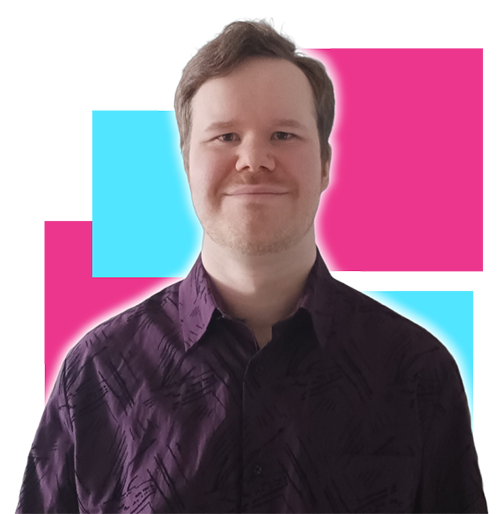
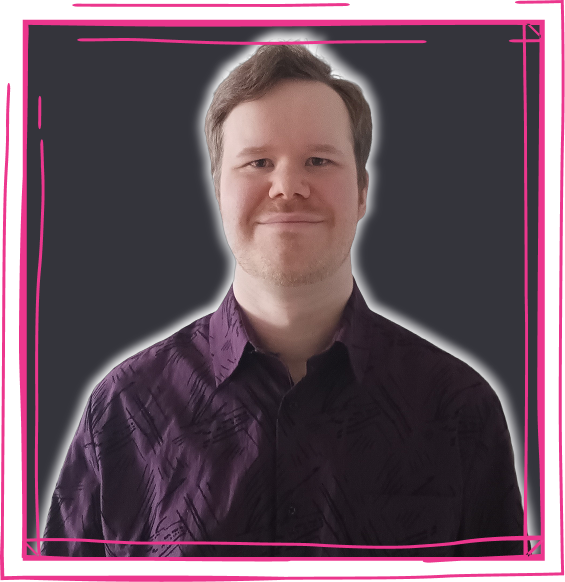
header update

diff --git a/app/website/header.module.scss b/app/website/header.module.scss
@@ -1,108 +1,90 @@
 @use "../main";
 @use "../responsive.scss";
 
+$text-margin: 0.8em 0;
+
 .header {
   background-color: main.$primary-black;
   color: main.$white;
 
   .header_content {
     display: flex;
-    padding-top: 1em;
+    padding: main.$content-padding;
     margin: auto;
     max-width: 1200px;
     white-space: pre-wrap;
 
     @media (max-width: responsive.$tablet) {
-      flex-direction: column-reverse;
+      flex-direction: column;
     }
 
     .header_content_left {
-      flex: 3;
-      padding: 2rem;
+      flex: 4;
       align-self: center;
 
       .text {
-        h2 {
-          margin: 0;
-          font-weight: 300;
-          font-size: main.$title;
-        }
-
         h1 {
-          font-weight: 600;
+          text-transform: uppercase;
+          font-weight: 500;
           color: main.$pink;
-          font-size: 2.8rem;
-          margin: 0.3em 0;
+          font-size: 1.4rem;
+          margin: $text-margin;
         }
 
         p {
-          margin-top: 1em;
-          font-weight: 300;
-        }
-
-        ul {
-          margin-bottom: 2em;
-          font-weight: 300;
-
-          li {
-            margin-bottom: 0.3em;
-          }
-        }
-
-        p,
-        ul {
-          font-size: main.$paragraph;
+          font-size: 1.2rem;
+          margin: $text-margin;
         }
       }
 
-      .buttons {
-        display: flex;
-        gap: 0.8em;
-        align-items: center;
+      .button_contact {
+        font-family: inherit;
+        text-align: center;
+        margin: 0.8em 0;
+        padding: 0.5em 1.2em;
+        border-radius: 0.7em;
+        background-color: main.$pink;
+        border: 1px solid main.$pink;
+        color: main.$white;
+        font-size: 1.2rem;
 
-        .button_cv {
-          text-decoration: auto;
-          text-align: center;
-          padding: 0.5em 1.2em;
-          border-radius: 0.7em;
-          background-color: main.$pink;
-          border: 1px solid main.$pink;
-          color: main.$white;
-          font-size: 1.5em;
-
-          &:hover {
-            background-color: main.$primary-black;
-            color: main.$pink;
-          }
+        &:hover {
+          background-color: main.$primary-black;
+          color: main.$pink;
+          cursor: pointer;
         }
+      }
 
-        .button_icon {
-          &:hover {
-            cursor: pointer;
-            opacity: 0.5;
-          }
+      .button_icon {
+        &:hover {
+          cursor: pointer;
+          opacity: 0.5;
+        }
+      }
+
+      .job_logos {
+        display: flex;
+        flex-wrap: wrap;
+        margin: $text-margin;
+        gap: 1.5em;
+        align-items: baseline;
+
+        .job_logo {
+          object-fit: contain;
+          width: 25%;
+          height: auto;
         }
       }
     }
 
     .header_content_right {
       flex: 2;
-      display: flex;
-      flex-direction: column;
-      justify-content: space-between;
-
-      @media (max-width: responsive.$tablet) {
-        border-bottom: 5px solid main.$pink;
-      }
+      align-self: center;
 
       .image {
-        max-width: 100%;
+        margin: 1em;
+        width: 90%;
         height: auto;
-
-        @media (width > responsive.$mobile-large) and (max-width: responsive.$tablet) {
-          max-width: 60%;
-          margin: auto;
-        }
       }
     }
   }

diff --git a/app/website/header.tsx b/app/website/header.tsx
@@ -1,30 +1,33 @@
+"use client";
 import Image from "next/image";
 import css from "./header.module.scss";
-import Link from "next/link";
 import { useTranslations } from "next-intl";
 import LanguageSwitch from "./languageSwitch";
 
 const Header = (): JSX.Element => {
   const t = useTranslations("website");
 
+  const scrollToSection = () => {
+    const element = document.getElementById("contact");
+    if (element) {
+      element.scrollIntoView({ behavior: "smooth" });
+    }
+  };
+
   return (
     <div className={css.header}>
       <div className={css.header_content}>
         <div className={css.header_content_left}>
+          <LanguageSwitch />
           <div className={css.text}>
-            <h2>{t("header.title")}</h2>
-            <h1>JERE LÄNSIPII</h1>
+            <h1>{t("header.title")}</h1>
             <p>{t("header.description")}</p>
           </div>
           <div className={css.buttons}>
+            <button className={css.button_contact} onClick={scrollToSection}>
+              {t("header.contact")}
+            </button>
             {/*<Link
-              className={css.button_cv}
-              href="https://drive.google.com/file/d/1lW8POtjbSFBUgkzlg0tzgyOiHAW1PIUB/view?usp=drive_link"
-              target="_blank"
-            >
-              {t("header.open_cv")}
-            </Link>*/}
-            <Link
               href="https://linkedin.com/in/jere-länsipii-60b1a3217"
               target="_blank"
             >
@@ -48,17 +51,45 @@ const Header = (): JSX.Element => {
                 priority
                 quality={50}
               />
-            </Link>
+            </Link>*/}
+          </div>
+          <div className={css.job_logos}>
+            <Image
+              className={css.job_logo}
+              src="/booosted.png"
+              alt="Booosted logo"
+              width={300}
+              height={62}
+              priority
+              quality={50}
+            />
+            <Image
+              className={css.job_logo}
+              src="/wheelq.png"
+              alt="WheelQ logo"
+              width={514}
+              height={134}
+              priority
+              quality={50}
+            />
+            <Image
+              className={css.job_logo}
+              src="/mipro.png"
+              alt="Mipro logo"
+              width={2048}
+              height={342}
+              priority
+              quality={50}
+            />
           </div>
         </div>
         <div className={css.header_content_right}>
-          <LanguageSwitch />
           <Image
             className={css.image}
             src="/avatar.png"
             alt="Jere Länsipii Avatar"
-            width={764}
-            height={786}
+            width={565}
+            height={582}
             priority
             quality={100}
           />

diff --git a/app/website/experience.tsx b/app/website/experience.tsx
@@ -22,35 +22,6 @@ const Experience = () => {
             <b>Aarne Savolainen, WheelQ</b>
           </span>
         </div>
-        <div className={css.job_logos}>
-          <Image
-            className={css.job_logo}
-            src="/wheelq.png"
-            alt="WheelQ logo"
-            width={514}
-            height={134}
-            priority
-            quality={50}
-          />
-          <Image
-            className={css.job_logo}
-            src="/mipro.png"
-            alt="Mipro logo"
-            width={2048}
-            height={342}
-            priority
-            quality={50}
-          />
-          <Image
-            className={css.job_logo}
-            src="/xamk.png"
-            alt="XAMK logo"
-            width={2409}
-            height={976}
-            priority
-            quality={50}
-          />
-        </div>
       </div>
     </div>
   );

diff --git a/app/website/experience.module.scss b/app/website/experience.module.scss
@@ -30,27 +30,5 @@
         color: main.$blue;
       }
     }
-
-    .job_logos {
-      display: flex;
-      flex-wrap: wrap;
-      margin-top: 2em;
-      gap: 1.5em;
-      justify-content: center;
-
-      .job_logo {
-        object-fit: contain;
-        width: 25%;
-        height: auto;
-
-        @media (max-width: responsive.$mobile-large) {
-          width: 60%;
-        }
-
-        @media (width > responsive.$mobile-large) and (max-width: responsive.$tablet) {
-          width: 40%;
-        }
-      }
-    }
   }
 }

diff --git a/app/website/languageSwitch.module.scss b/app/website/languageSwitch.module.scss
@@ -3,13 +3,12 @@
 .language_switch {
   display: flex;
   align-self: flex-end;
-  padding: 0.5em;
 
   .language_switch_button {
     display: flex;
     justify-content: center;
     align-items: center;
-    margin: 0.2em;
+    margin: 0 0.5em 0.8em 0;
     padding: 0.2em;
     color: main.$white;
     background-color: main.$pink;

diff --git a/app/website/contact.tsx b/app/website/contact.tsx
@@ -5,7 +5,7 @@ const Contact = (): JSX.Element => {
   const t = useTranslations("website");
 
   return (
-    <div className={css.contact}>
+    <div className={css.contact} id="contact">
       <div className={css.contact_content}>
         <h1>{t("contact_header")}</h1>
         <div className={css.contact_items}>
